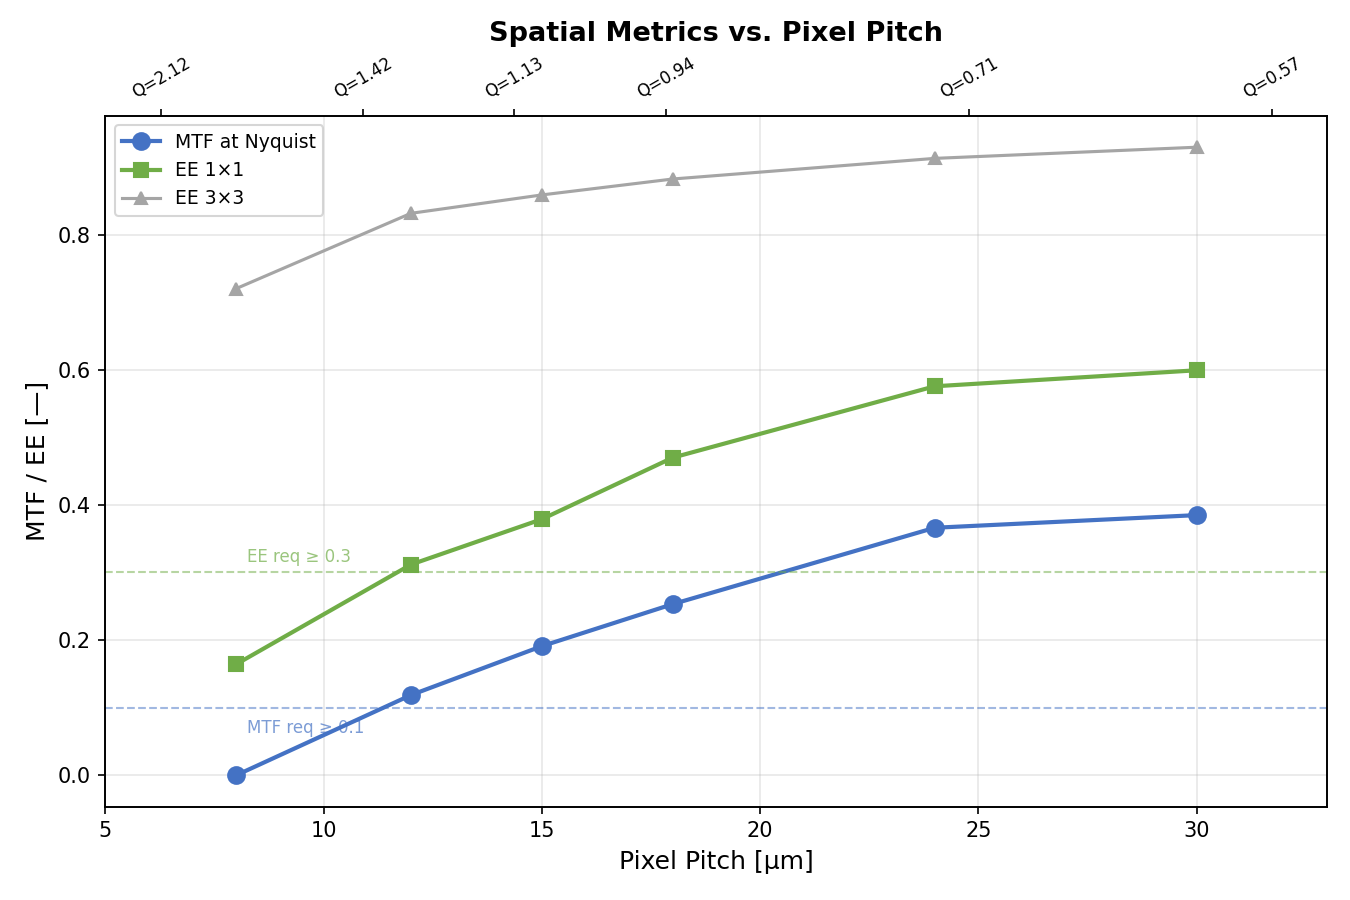
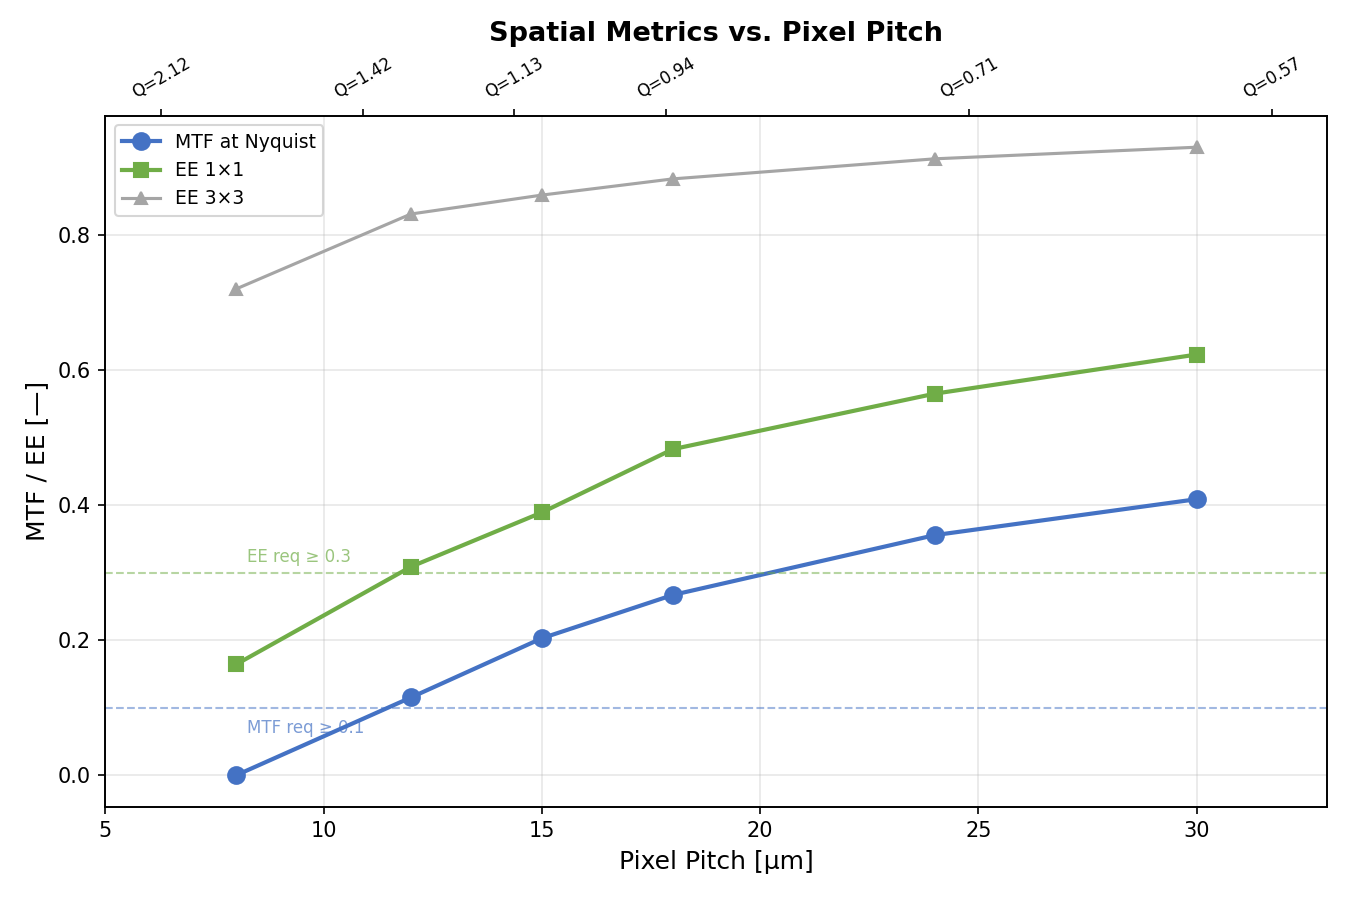
docs(scenarios): CU-176/178 — refresh 5.2 (pixel pitch trade) + fix runner
Runner: add performance.niirs.allow_extrapolated=True to the config and
matplotlib.use('Agg') (headless-safe; plt.show() previously blocked batch runs).

Numbers: clipped detectors (8-18um, well-saturated) keep identical SNR (signal
pinned at FWC); spatial metrics + NEDT shifted with the engine (18um MTF@Nyq
0.253->0.267, EE 0.470->0.483, NIIRS 4.7->4.8). Unclipped 24/30um signal fell
with the MWIR recalibration (30um 1,701,104->1,372,568 e-, SNR 1304->1171).
18um remains the FoM-optimal choice. Refreshed both tables + 4 figures; fixed a
stale 18um MTF/EE citation (0.42/0.64 -> 0.267/0.483).

diff --git a/scenarios/05_tom_optical_designer/5.2_pixel_pitch_optimization/scripts/run_pixel_pitch_sweep.py b/scenarios/05_tom_optical_designer/5.2_pixel_pitch_optimization/scripts/run_pixel_pitch_sweep.py
@@ -35,6 +35,9 @@ from pathlib import Path
 import numpy as np
 import openpyxl
 from openpyxl.styles import Font, PatternFill, Border, Side, Alignment
+import matplotlib
+
+matplotlib.use("Agg")  # headless-safe: plt.show() is a no-op, so the runner completes in CI/batch
 import matplotlib.pyplot as plt
 
 # ---------------------------------------------------------------------------
@@ -270,6 +273,9 @@ for idx, p_um in enumerate(pitches_um):
             "adc_bits": adc_bits,
             "full_well_capacity_e": fwc,
         },
+        # CU-178: config outside the GIQE-5 envelope → NIIRS N/A by default; opt into
+        # the extrapolated NIIRS trend (read as relative, not calibrated).
+        "performance": {"niirs": {"allow_extrapolated": True}},
     }
 
     sensor = Sensor.from_dict(config)

diff --git a/scenarios/05_tom_optical_designer/5.2_pixel_pitch_optimization/walkthrough.md b/scenarios/05_tom_optical_designer/5.2_pixel_pitch_optimization/walkthrough.md
@@ -69,15 +69,15 @@ Results:
 
 | Pitch [µm] | Q    | SNR    | MTF@Nyq | EE 1×1 | NIIRS | NEDT [mK] | Signal [e⁻] |
 |-------------|------|--------|---------|--------|-------|-----------|-------------|
-| 8           | 2.12 | 199.8  | 0.000   | 0.164  | 4.3   | 144.6     | 40,000      |
-| 12          | 1.42 | 346.2  | 0.119   | 0.312  | 4.6   | 83.5      | 120,000     |
-| 15          | 1.13 | 499.7  | 0.191   | 0.379  | 4.6   | 57.8      | 250,000     |
-| 18          | 0.94 | 706.9  | 0.253   | 0.470  | 4.7   | 40.9      | 500,000     |
-| 24          | 0.71 | 1058.4 | 0.366   | 0.576  | 4.8   | 27.3      | 1,120,727   |
-| 30          | 0.57 | 1304.0 | 0.385   | 0.599  | 4.7   | 22.2      | 1,701,104   |
+| 8           | 2.12 | 199.8  | 0.000   | 0.164  | 4.3   | 149.4     | 40,000      |
+| 12          | 1.42 | 346.2  | 0.115   | 0.309  | 4.5   | 86.2      | 120,000     |
+| 15          | 1.13 | 499.7  | 0.203   | 0.389  | 4.7   | 59.7      | 250,000     |
+| 18          | 0.94 | 706.9  | 0.267   | 0.483  | 4.8   | 42.2      | 500,000     |
+| 24          | 0.71 | 950.7  | 0.355   | 0.565  | 4.7   | 31.4      | 904,280     |
+| 30          | 0.57 | 1171.2 | 0.409   | 0.623  | 4.6   | 25.5      | 1,372,568   |
 
 The trends are clear:
-- **Signal scales roughly as p²** — the 30 µm pixel collects ~40× more photons than the 8 µm pixel. This is the dominant driver of SNR.
+- **Signal scales roughly as p²** — the 30 µm pixel collects ~34× more photons than the 8 µm pixel (whose well saturates and clips at 40,000 e⁻, so the ratio understates the raw p²·QE collection). This is the dominant driver of SNR.
 - **SNR increases with pitch** — larger pixels win on sensitivity.
 - **MTF at Nyquist decreases with smaller pitch** — counterintuitively, the 8 µm pixel has MTF = 0 at Nyquist. This is because at Q = 2.12, the Nyquist frequency (62.5 cy/mm) is well beyond the optical cutoff, so there is no modulation at that frequency. The MTF is zero because the optics can't produce contrast at such a high spatial frequency.
 - **EE 1×1 decreases with smaller pitch** — the Airy disk spreads across many pixels at small pitch, so each pixel captures less of the total PSF energy.
@@ -101,15 +101,15 @@ Among the three compliant candidates, a simple figure of merit (SNR / GSD — hi
 
 | Pitch [µm] | Q    | GSD [m] | SNR   | NIIRS | NEDT [mK] | FoM (SNR/GSD) |
 |-------------|------|---------|-------|-------|-----------|----------------|
-| 12          | 1.42 | 5.0     | 346.2 | 4.6   | 83.5      | 69.2           |
-| 15          | 1.13 | 6.2     | 499.7 | 4.6   | 57.8      | 80.0           |
-| 18          | 0.94 | 7.5     | 706.9 | 4.7   | 40.9      | **94.3**       |
+| 12          | 1.42 | 5.0     | 346.2 | 4.5   | 86.2      | 69.2           |
+| 15          | 1.13 | 6.2     | 499.7 | 4.7   | 59.7      | 80.6           |
+| 18          | 0.94 | 7.5     | 706.9 | 4.8   | 42.2      | **94.3**       |
 
 The 18 µm pixel has Q = 0.94 — slightly undersampled but with excellent SNR margin (707 vs. 100 requirement) and GSD margin (7.5 m vs. 10 m limit). It's the classic engineering trade-off: slightly sacrificing sampling adequacy for a large gain in sensitivity.
 
 ## Key Takeaways
 
-1. **Q = 0.94 (18 µm) is the sweet spot for this f/4 MWIR system.** Slightly undersampled, but the SNR gain from larger pixels far outweighs the modest aliasing risk. The MTF at Nyquist (0.42) and EE 1×1 (0.64) are both well above requirements.
+1. **Q = 0.94 (18 µm) is the sweet spot for this f/4 MWIR system.** Slightly undersampled, but the SNR gain from larger pixels far outweighs the modest aliasing risk. The MTF at Nyquist (0.267) and EE 1×1 (0.483) are both well above requirements.
 
 2. **Oversampling is expensive in SNR.** The 8 µm pixel (Q = 2.12) is severely oversampled — it has 3.3 m GSD but can barely meet the SNR requirement. Signal scales as p², so halving the pixel pitch quarters the signal. Going from 18 to 8 µm reduces signal by 5×.
 
